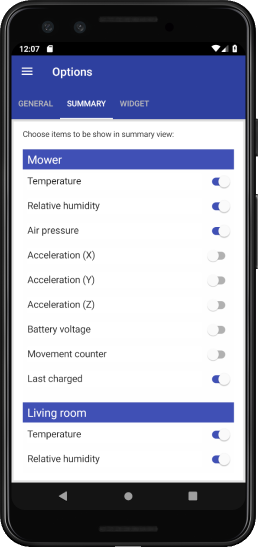
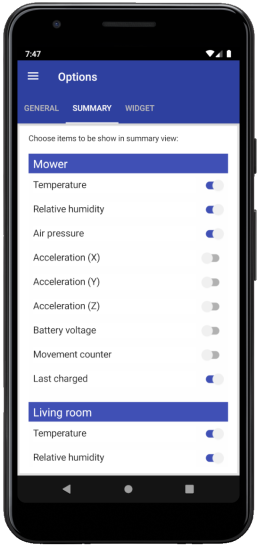
Update documentation (iOS app improved)

Changed region(s): [[0.0, 0.0, 1.0, 1.0], [0.1245, 0.6837, 0.3424, 0.7148], [0.7782, 0.6837, 0.8716, 0.7148]]

diff --git a/README.md b/README.md
@@ -15,15 +15,16 @@ It consists of server part (running on Raspberry Pi, for example) to gather data
 
 ## Features
 ### Mobile application (Vahti.Mobile)
-![Locations (Dark)](doc/images/locations_dark.png) 
+![Location (iOS)](doc/images/locations_ios.png)
 ![Locations](doc/images/locations.png) 
+![Locations (Dark)](doc/images/locations_dark.png) 
 ![History](doc/images/history.png)
 ![Details](doc/images/details.png)
 ![Options](doc/images/options.png)
 ![Widget](doc/images/widget.png)
 
-- Implemented with Xamarin Forms 
-- Focus has been on Android (iOS app compiled without Apple Developer license works only a week at time)
+- For Android and iOS
+- Implemented with Xamarin Forms
 - Show latest measurement data and history graphs
 - Choose which measurements to show on main view
 - Get push notifications (alerts) from server 
@@ -55,7 +56,7 @@ For sending alerts by email or to publish for a generic MQTT client:
 
 To support showing data in mobile app requires (in addition to what's listed above):
 
-3. Android device (building for iOS basically requires Apple developer license, so iOS version has been on side track)
+3. Android or iOS device (building for iOS basically requires Apple developer license)
 4. Google Firebase realtime database needed for data storage to use the mobile app (free)
 
 For full setup with mobile app and push notifications requires (in addition to what's listed above):
@@ -65,9 +66,6 @@ For full setup with mobile app and push notifications requires (in addition to w
 
 ## Usage
 Depending on configuration and functionality used, the system requires different kind of setup. See details with tutorials in [Getting started](doc/GettingStarted.md)
-
-## Support for iOS
-iOS app currently starts up and is able to show data on overview page. There are still many issues and some platform specific functionality has not been implemented yet in iOS app. I'm not focusing on them currently because I'm not sure how many of those who are interested in this project have Apple developer license. 
 
 ## Background
 Originally I did a very simple version of the system for my own purposes to supervise my robotic lawnmower by using a RuuviTag sensor. Then I thought that maybe I could make it more generic, so that adding support for additional devices isn't too complicated. I've tried to document the project so that also those with less development experience could use it (see [Getting started](doc/GettingStarted.md))

diff --git a/doc/GettingStarted.md b/doc/GettingStarted.md
@@ -1,7 +1,7 @@
 # Getting started
-Starting to use Vahti requires setting up different kind of things depending on what you want to achieve. 
+Starting to use Vahti requires setting up different kind of things depending on what you want to achieve. The tutorials focus on Android.
 
-- [Full setup tutorial](FullTutorial.md) describes how to set up system where full functionality of Vahti is used: read data using Vahti.Collector, relay data to cloud database using Vahti.DataBroker and show it in mobile app.
+- [Full setup tutorial](FullTutorial.md) describes how to set up system where full functionality of Vahti is used: read data using Vahti.Collector, relay data to cloud database using Vahti.DataBroker and show it in mobile app on Android.
 - [No Azure notifications tutorial](NoAzureNotificationsTutorial.md) describes show to set up system like in full tutorial, except that no Azure notifications are configured. You can configure email notifications, however, using [Alert tutorial](AlertTutorial.md)
 - [Alert tutorial](AlertTutorial.md) describes how to get just alerts without having mobile app
 - [Robotic lawn mower tutorial](RoboticLawnMowerTutorial.md) shows how to use RuuviTag to check that robotic lawn mower has returned to charging station

diff --git a/doc/FullTutorial.md b/doc/FullTutorial.md
@@ -19,8 +19,12 @@ The tutorial contains a lot of steps, but the aim is to help those who are not s
 
  https://docs.microsoft.com/en-us/azure/notification-hubs/xamarin-notification-hubs-push-notifications-android-gcm
 
+ If you're building for iOS, check this tutorial:
+
+ https://docs.microsoft.com/en-us/azure/developer/mobile-apps/notification-hubs-backend-service-xamarin-forms
+
 ### Create Google Firebase realtime database
-Read [Create Firebase database](CreateFirebaseDatabase.md) to get information on how to create Firebase database, where data is stored.
+Read [Create Firebase database](CreateFirebaseDatabase.md) to get information on how to create Firebase database and where data is stored.
 
 ### Update mobile projects
 1. Set Vahti.Mobile.Android project as start-up project in toolbar (or via project context menu)
